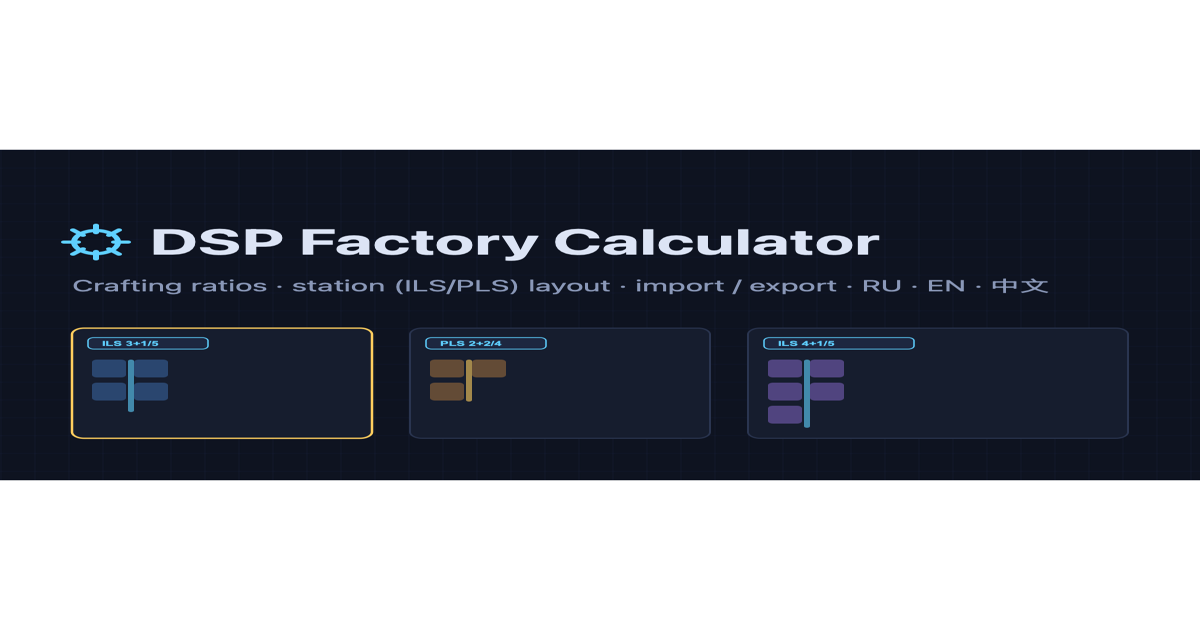
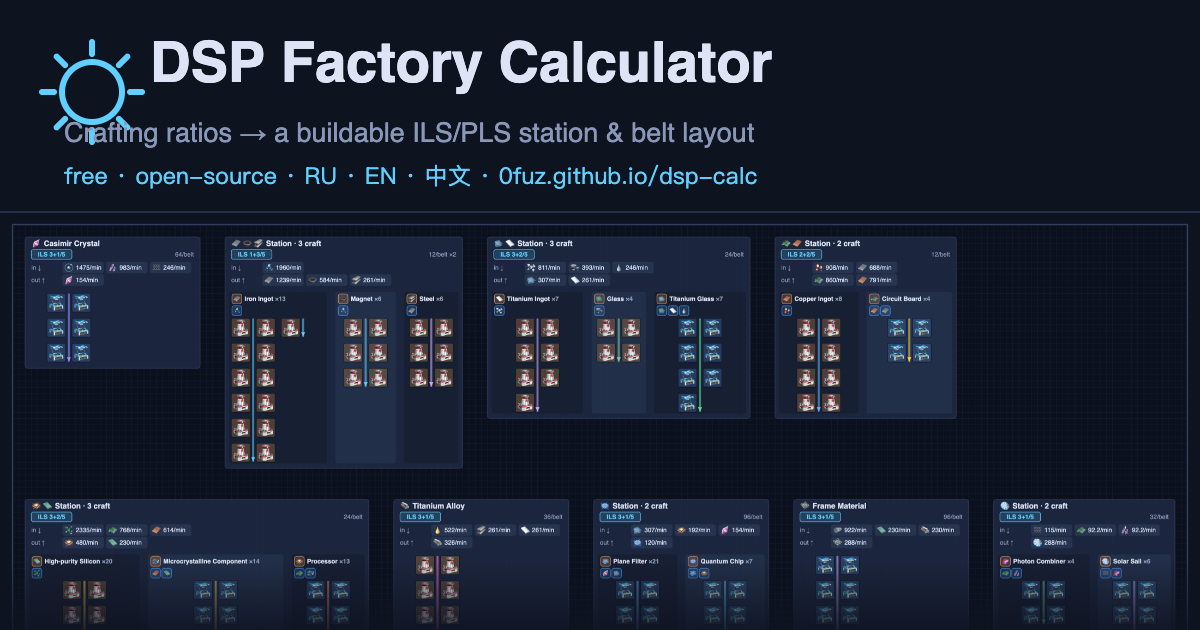
Improve link preview: English OG/meta copy + real-render social card
- og:/twitter:/meta descriptions and <title> switched RU -> EN (matched the
  English title/image); lead with the 'ratios -> buildable layout' hook
- html lang ru -> en
- replaced the abstract og.svg mockup with a 1200x630 card built from a real
  hub-view render + title bar; removed the now-unused og.svg

diff --git a/index.html b/index.html
@@ -1,10 +1,10 @@
 <!DOCTYPE html>
-<html lang="ru">
+<html lang="en">
 <head>
 <meta charset="UTF-8">
 <meta name="viewport" content="width=device-width, initial-scale=1.0, viewport-fit=cover">
-<title>DSP Factory Calculator — крафты, раскладка ILS/PLS</title>
-<meta name="description" content="Калькулятор фабрики Dyson Sphere Program: соотношения крафтов, раскладка логистических станций (ILS/PLS), импорт/экспорт. RU · EN · 中文.">
+<title>DSP Factory Calculator — ILS/PLS station layout planner</title>
+<meta name="description" content="Crafting ratios → a buildable ILS/PLS station & belt layout — the step other Dyson Sphere Program calculators skip. Free & open-source. RU · EN · 中文.">
 <meta name="theme-color" content="#0e1320">
 <link rel="icon" href="./assets/favicon.svg" type="image/svg+xml">
 <link rel="apple-touch-icon" href="./assets/apple-touch-icon.png">
@@ -13,11 +13,11 @@
 <meta property="og:type" content="website">
 <meta property="og:url" content="https://0fuz.github.io/dsp-calc/">
 <meta property="og:title" content="DSP Factory Calculator">
-<meta property="og:description" content="Крафты, раскладка станций ILS/PLS, импорт/экспорт. RU · EN · 中文.">
+<meta property="og:description" content="Crafting ratios → a buildable ILS/PLS station & belt layout — the step other DSP calculators skip. Free & open-source. RU · EN · 中文.">
 <meta property="og:image" content="https://0fuz.github.io/dsp-calc/assets/og.png">
 <meta name="twitter:card" content="summary_large_image">
 <meta name="twitter:title" content="DSP Factory Calculator">
-<meta name="twitter:description" content="Крафты, раскладка станций ILS/PLS, импорт/экспорт.">
+<meta name="twitter:description" content="Crafting ratios → a buildable ILS/PLS station & belt layout — the step other DSP calculators skip. Free & open-source. RU · EN · 中文.">
 <meta name="twitter:image" content="https://0fuz.github.io/dsp-calc/assets/og.png">
 <style>
   :root{